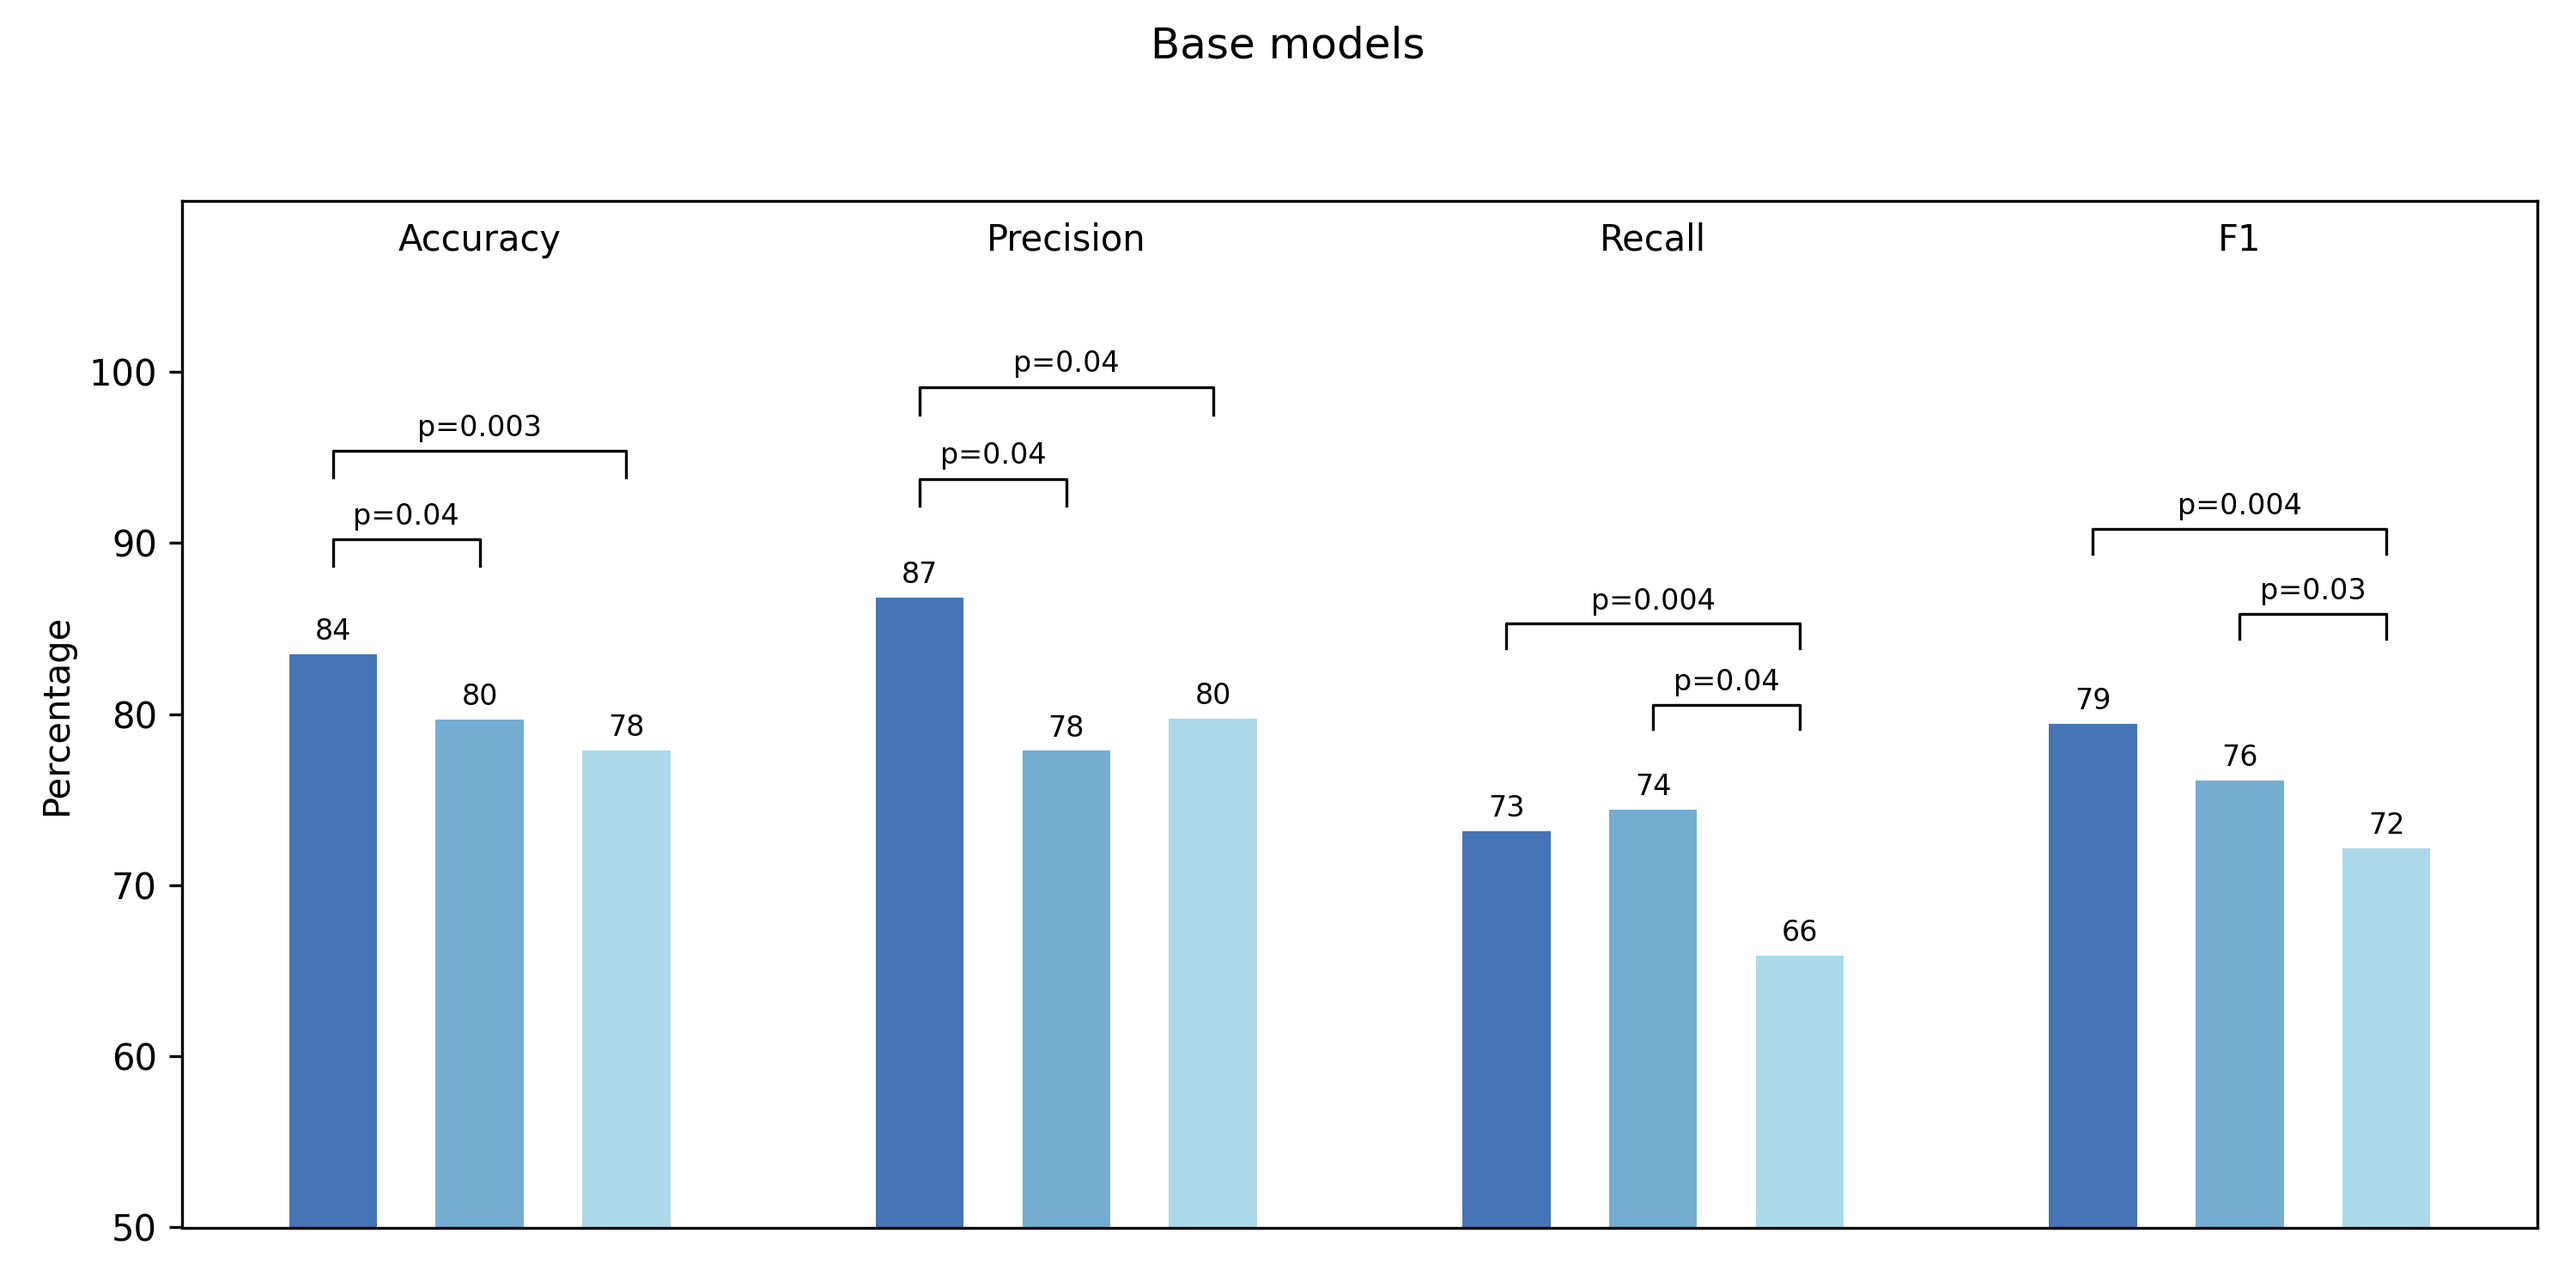
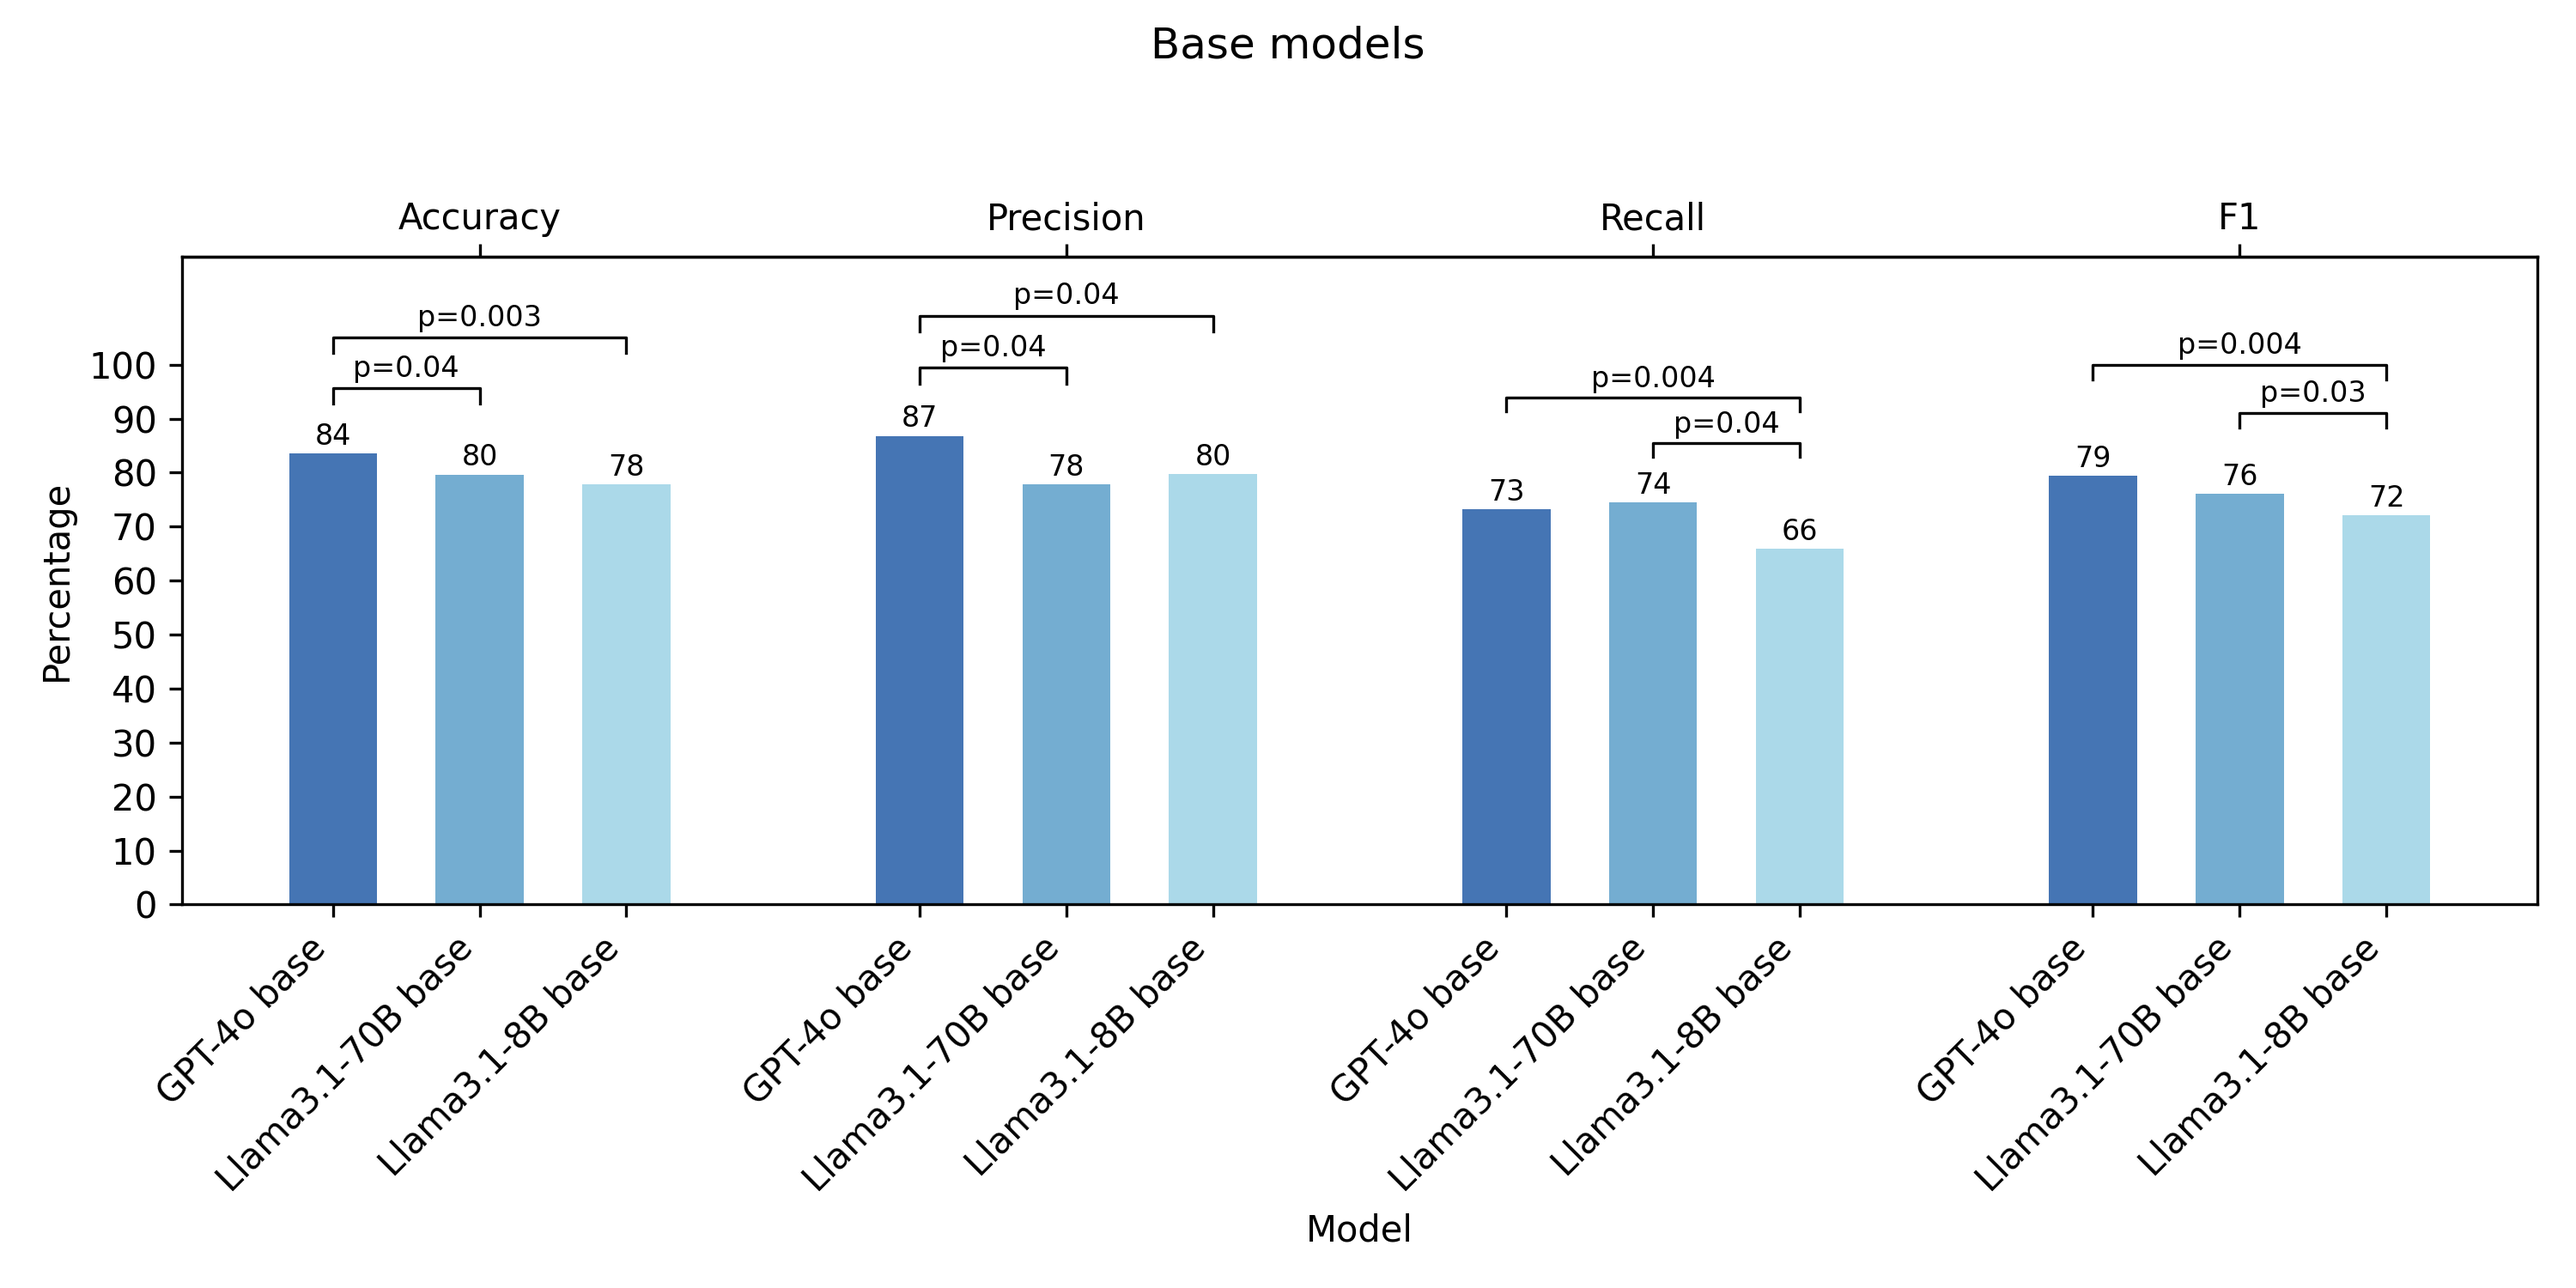
update inter model figures

diff --git a/inter_model_compare/generate_three_figures.py b/inter_model_compare/generate_three_figures.py
@@ -172,7 +172,7 @@ def annotate_significance(
         span_groups.setdefault(span, []).append(entry)
 
     max_height = max(heights.values())
-    step = max_height * 0.05 + 1
+    step = max_height * 0.1 + 1
     current_y = max_height + step
 
     for span in sorted(span_groups.keys()):
@@ -210,6 +210,8 @@ def plot_figure(
 
     x_ticks = []
     x_tick_labels = []
+    bar_ticks = []
+    bar_tick_labels = []
     bar_entries = []
 
     for m_idx, metric in enumerate(METRICS):
@@ -219,22 +221,26 @@ def plot_figure(
         bars = ax.bar(list(x_positions.values()), list(heights.values()), color=colors, width=0.6)
 
         pairwise = get_pairwise_pvalues(models, variant, metric, pvalue_lookup)
-        annotate_significance(ax, x_positions, heights, pairwise, y_min=50)
+        annotate_significance(ax, x_positions, heights, pairwise, y_min=0)
 
         center = base_x + (len(models) - 1) / 2
         x_ticks.append(center)
         x_tick_labels.append(metric)
+        bar_ticks.extend([x_positions[model["label"]] for model in models])
+        bar_tick_labels.extend([model["label"] for model in models])
 
         bar_entries.extend((bar, model, heights) for bar, model in zip(bars, models))
 
-    ax.set_yticks(np.arange(50, 101, 10))
+    ax.set_yticks(np.arange(0, 101, 10))
     current_top = ax.get_ylim()[1]
-    ax.set_ylim(bottom=50, top=max(current_top, 110))
-    ax.set_xticks(x_ticks)
-    ax.set_xticklabels(x_tick_labels)
-    # Keep metric labels at the top but tuck them just inside the axes instead of above the top spine.
-    # Hide top tick marks while keeping labels just inside the axis.
-    ax.tick_params(axis="x", bottom=False, labelbottom=False, top=True, labeltop=True, pad=-16, length=0)
+    ax.set_ylim(bottom=0, top=max(current_top, 120))
+    ax.set_xticks(bar_ticks)
+    ax.set_xticklabels(bar_tick_labels, rotation=45, ha="right")
+    top_ax = ax.secondary_xaxis("top")
+    top_ax.set_xticks(x_ticks)
+    top_ax.set_xticklabels(x_tick_labels)
+    top_ax.tick_params(axis="x", pad=2)
+    ax.set_xlabel("Model")
     ax.set_ylabel("Percentage")
 
     for bar, model, heights in bar_entries:
